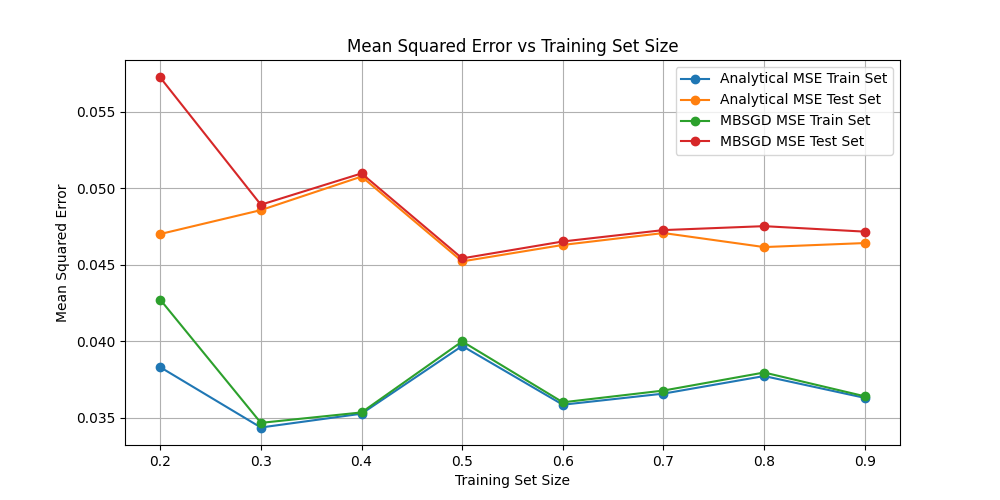
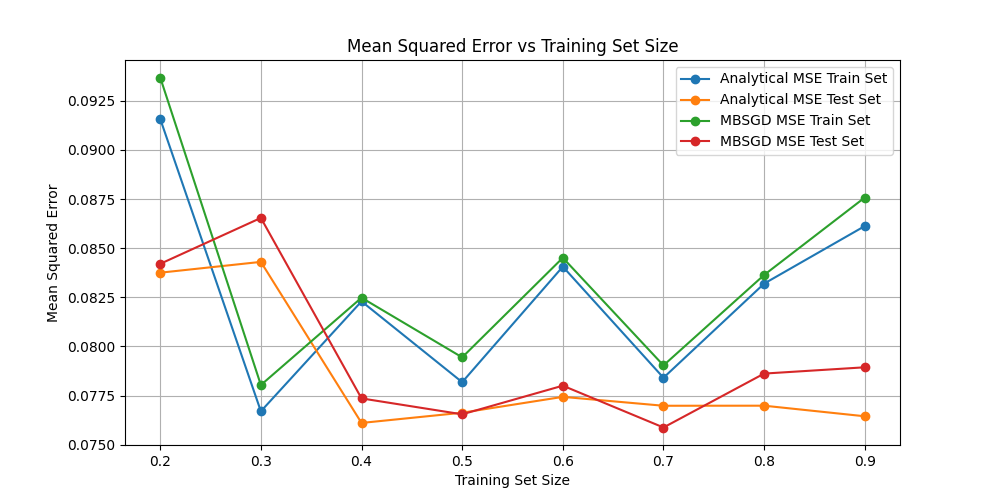
FIXING SHITTTTTTTTTT

diff --git a/Helpers.py b/Helpers.py
@@ -11,7 +11,6 @@ from sklearn.metrics import accuracy_score, precision_score, recall_score, f1_sc
     explained_variance_score
 
 
-
 # Obtain correlation matrix.
 def get_correlation(df, target):
     correlation_matrix = df.corr()
@@ -29,6 +28,7 @@ def calculate_variance_inflation_factor(df):
     print(vif)
     return vif
 
+
 # Split data into test and train.
 def split_data(df, feature, test_size=0.2, random_state=None):
     y = df[feature]
@@ -45,9 +45,6 @@ def scale_data(x_train_data, x_test_data):
     x_train_data_scaled = scaler.fit_transform(x_train_data)
     x_test_data_scaled = scaler.transform(x_test_data)
     return x_train_data_scaled, x_test_data_scaled
-
-
-
 
 
 def print_linear_regression_model_stats(x_test, y_test, yh):
@@ -164,29 +161,61 @@ def create_array_minibatch(x, y, batch_size):
     """
     Create mini-batches for mini-batch gradient descent.
     """
+    # matrix = np.c_[x, y]
+    # np.random.shuffle(matrix)
+    # mini_batches = np.array_split(matrix, batch_size)
+    # return [(batch[:, :-1], batch[:, -1]) for batch in mini_batches]
+
     matrix = np.c_[x, y]
     np.random.shuffle(matrix)
-    mini_batches = np.array_split(matrix, batch_size)
-    return [(batch[:, :-1], batch[:, -1]) for batch in mini_batches]
+    mini_batches = []
+    for i in range(0, len(matrix), batch_size):
+        batch = matrix[i: i + batch_size]
+        mini_batches.append((batch[:, :-1], batch[:, -1]))
+
+    # mini_batches = np.array_split(matrix, batch_size)
+    # return [(batch[:, :-1], batch[:, -1]) for batch in mini_batches]
+    return mini_batches
 
 
-def stochastic_gradient_descent(self, x, y):
+def stochastic_gradient_descent(self, x, y, batch_size):
     """
       Implement stochastic gradient descent.
     """
-    n_samples, n_features = x.shape
+    # n_samples, n_features = x.shape
+    #
+    # for i in range(n_samples):  # Iterate over all the samples in the X
+    #     rand_index = np.random.randint(
+    #         n_samples
+    #     )  # fetch the index of random value in x
+    #
+    #     x_rand, y_rand = (
+    #         x[rand_index],
+    #         y[rand_index],
+    #     )  # Obtain the two corresponding sample and result
+    grad = self.gradient(x, y, batch_size)
+    self.weights = self.weights - self.learning_rate * grad
 
-    for i in range(n_samples):  # Iterate over all the samples in the X
-        rand_index = np.random.randint(
-            n_samples
-        )  # fetch the index of random value in x
 
-        x_rand, y_rand = (
-            x[rand_index],
-            y[rand_index],
-        )  # Obtain the two corresponding sample and result
-
-        grad = self.gradient(x_rand, y_rand)
-        self.weights = self.weights - self.learning_rate * grad
-        if np.linalg.norm(grad) < self.epsilon:
-            break
+        # if np.linalg.norm(grad) < self.epsilon:
+        #     break
+    #
+    # for (x_batch, y_batch) in mini_batches:  # Iterate over all the samples in the X
+    #     # fetch the index of random value in x
+    #     print('x batch')
+    #     print(x_batch)
+    #
+    #     print('y batch')
+    #     print(y_batch)
+    #
+    #     rand_index = np.random.randint(len(x_batch))
+    #     # Obtain the two corresponding sample and result
+    #     x_rand, y_rand = (
+    #         x_batch[rand_index],
+    #         y_batch[rand_index],
+    #     )
+    #
+    #     grad = self.gradient(x_rand, y_rand)
+    #     self.weights = self.weights - self.learning_rate * grad
+    #     if np.linalg.norm(grad) < self.epsilon:
+    #         break

diff --git a/InfraredThermographyTemperature/MiniBatchStochasticLinearRegression.py b/InfraredThermographyTemperature/MiniBatchStochasticLinearRegression.py
@@ -2,6 +2,7 @@ import numpy as np
 from Assignment1.Helpers import adaptive_moment_estimation, stochastic_gradient_descent, create_array_minibatch
 from sklearn.metrics import mean_squared_error, r2_score, explained_variance_score
 
+
 class MiniBatchStochasticLinearRegression:
 
     def __init__(
@@ -32,17 +33,17 @@ class MiniBatchStochasticLinearRegression:
         self.t = 0  # Time step (iteration counter)
         self.lambdaa = lambdaa
 
-    def gradient(self, x, y):
+    def gradient(self, x, y, batch_size=8):
 
-        yh = np.dot(self.weights, x)
+        yh = np.dot(x,self.weights)
         grad = np.dot(x.T, yh - y)
-
+        grad = grad / batch_size
         # L2 and L1 regularization, respectively.
         # Keep for report.
         # grad[1:] += self.lambdaa * self.weights[1:]
         # grad[1:] += self.lambdaa * np.sign(self.weights[1:])
 
-        return grad  # size n_features
+        return grad # size n_features
 
     def fit(self, x, y, optimization=False):
         if self.bias:
@@ -60,11 +61,12 @@ class MiniBatchStochasticLinearRegression:
             for x_batch, y_batch in mini_batches:
                 if optimization:
                     adaptive_moment_estimation(
-                        x_batch, y_batch, self.weights, self.m, self.v, self.t, self.learning_rate, self.beta1, self.beta2,
+                        x_batch, y_batch, self.weights, self.m, self.v, self.t, self.learning_rate, self.beta1,
+                        self.beta2,
                         self.epsilon, self.gradient
                     )
                 else:
-                    stochastic_gradient_descent(self, x_batch, y_batch)
+                    stochastic_gradient_descent(self, x_batch, y_batch, self.batch_size)
             y_pred = np.dot(x, self.weights)
             mses = mean_squared_error(y, y_pred)
             r2 = r2_score(y, y_pred)

diff --git a/DiabetesHealthIndicators/MiniBatchLogisticRegression.py b/DiabetesHealthIndicators/MiniBatchLogisticRegression.py
@@ -41,6 +41,23 @@ class MiniBatchLogisticRegression:
         self.m = np.zeros(n_features)  # Initialize first moment (Added for Adam)
         self.v = np.zeros(n_features)  # Initialize second moment (Added for Adam)
 
+        # for e in range(self.epoch):
+        #     mini_batches = create_array_minibatch(x, y, batch_size=self.batch_size)
+        #     for x_batch, y_batch in mini_batches:
+        #         if optimization:
+        #             adaptive_moment_estimation(
+        #                 x_batch, y_batch, self.weights, self.m, self.v, self.t, self.learning_rate, self.beta1,
+        #                 self.beta2, self.epsilon, self.gradient
+        #             )
+        #         else:
+        #             stochastic_gradient_descent(self, x_batch, y_batch)
+        #     y_train_pred = sigmoid(np.dot(x, self.weights))
+        #     loss = log_loss(y, y_train_pred)
+        #     losses.append(loss)
+        # return losses
+        # To track convergence and iterations
+        iterations = 0
+
         for e in range(self.epoch):
             mini_batches = create_array_minibatch(x, y, batch_size=self.batch_size)
             for x_batch, y_batch in mini_batches:
@@ -54,7 +71,13 @@ class MiniBatchLogisticRegression:
             y_train_pred = sigmoid(np.dot(x, self.weights))
             loss = log_loss(y, y_train_pred)
             losses.append(loss)
-        return losses
+            iterations += 1
+
+            # Early stopping condition if loss stabilizes
+            if len(losses) > 1 and abs(losses[-1] - losses[-2]) < self.epsilon:
+                break
+
+        return iterations, losses
 
     def predict(self, x):
         if self.add_bias:

diff --git a/InfraredThermographyTemperature/PrepareDataset.py b/InfraredThermographyTemperature/PrepareDataset.py
@@ -279,19 +279,20 @@ def main():
         "canthi4Max1",
         "T_FHRC1",
         "T_FHLC1",
-        "T_FHBC1",
-        "T_FHTC1",
-        "T_OR1",
-        "T_Max1",
-        "T_FH_Max1",
-        "T_FHC_Max1",
-        "LCC1",
-        "canthiMax1",
-        "Max1R13_1",
-        "aveAllL13_1",
-        "T_RC1",
-        "T_LC1",
-        "RCC1",
+        # "T_FHBC1",
+        # "T_FHTC1",
+        # "T_OR1",
+        # "T_Max1",
+        # "T_FH_Max1",
+        # "T_FHC_Max1",
+        # "LCC1",
+        # "canthiMax1",
+        # "Max1R13_1",
+        # "aveAllL13_1",
+        # "T_RC1",
+        # "T_LC1",
+        # "RCC1",
+        "aveOralF"
     ]
     df.drop(columns_to_drop, axis=1, inplace=True)
 
@@ -305,11 +306,13 @@ def main():
         "Results",
         "Infrared_Thermography_Correlation_Matrix_After_Dropping_Values.png",
     )
-    linear_regression_test_growing_subset(df)
+    # linear_regression_test_growing_subset(df)
 
     plot_histogram_correlation(df)
-    #mbsgd_test_batch_sizes(df)
-    linear_regression_learning_rate_test(df)
+
+    mbsgd_test_batch_sizes(df)
+
+    # linear_regression_learning_rate_test(df)
     plot_variance_inflation_factor(df, "Diabetes_binary", "Results")
 
 

diff --git a/DiabetesHealthIndicators/PrepareDataset.py b/DiabetesHealthIndicators/PrepareDataset.py
@@ -2,7 +2,7 @@ from LogisticRegression import *
 from MiniBatchLogisticRegression import *
 from Assignment1.Helpers import *
 from Assignment1.PlotHelpers import *
-from minibatchLogR import *
+# from minibatchLogR import *
 
 
 
@@ -243,8 +243,8 @@ def main():
     df = preprocess_diabetes_data("Data/DiabetesHealthIndicators.csv")
 
     # Perform regression testing for standard and mini-batch.
-    #run_regression_tests(df, "Test logistic regression", regression_type="standard")
-    #run_regression_tests(df, "Test mini-batch logistic regression", regression_type="mini_batch")
+    run_regression_tests(df, "Test logistic regression", regression_type="standard")
+    run_regression_tests(df, "Test mini-batch logistic regression", regression_type="mini_batch")
 
     logistic_regression_test_growing_subset(df)
 
